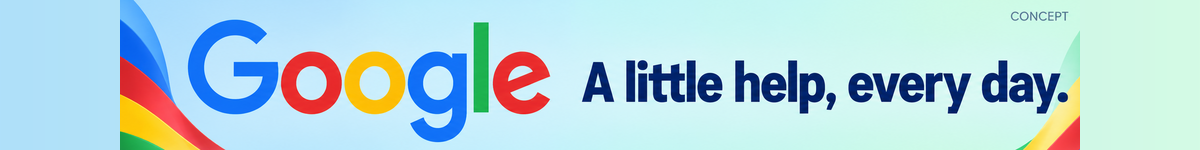
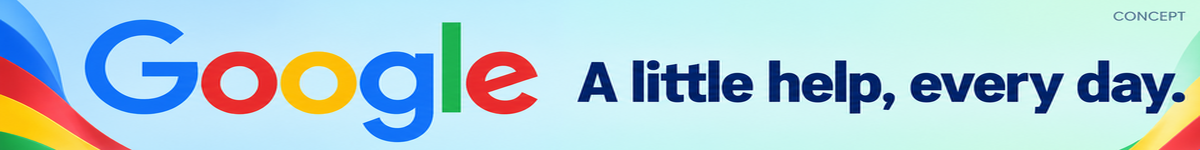
Stretch sponsor edge to edge

diff --git a/index.html b/index.html
@@ -1,6 +1,6 @@
 <!doctype html>
-<html lang="en"><head><meta charset="utf-8"><meta name="viewport" content="width=device-width,initial-scale=1,viewport-fit=cover"><meta name="theme-color" content="#0b1421"><meta name="color-scheme" content="dark light"><meta name="description" content="Household waste collection times in Malta and Gozo."><link rel="manifest" href="manifest.webmanifest?v=1.0.98"><link rel="icon" href="icons/favicon-32.png?v=1.0.98" type="image/png" sizes="32x32"><link rel="apple-touch-icon" href="icons/apple-touch-icon.png?v=1.0.98"><script>(()=>{let theme='dark';try{if(localStorage.getItem('bag-day-appearance-v1')==='light')theme='light';}catch(_){}const root=document.documentElement;const colour=theme==='dark'?'#0b1421':'#edf3f9';root.dataset.theme=theme;root.style.colorScheme=theme;root.style.backgroundColor=colour;document.querySelector('meta[name="theme-color"]').content=colour;document.querySelector('meta[name="color-scheme"]').content=theme;})();</script><link rel="stylesheet" href="css/styles.css?v=1.0.98"><link rel="stylesheet" href="css/game-launcher.css?v=1.0.98"><title>Bag Day Malta</title><link rel="stylesheet" href="css/home-redesign.css?v=1.0.98"></head>
-<body><button id="splashScreen" hidden class="splash-screen" type="button" aria-label="Bag Day Malta. Which waste bag goes out today? See your locality’s collection time. Version 1.0.98. Tap to continue."><span class="splash-content"><span class="splash-bags"><img class="splash-bag splash-bag-white" src="icons/bag-organic.svg" alt="" aria-hidden="true"><img class="splash-bag splash-bag-black" src="icons/bag-mixed.svg" alt="" aria-hidden="true"><img class="splash-bag splash-bag-grey" src="icons/bag-recycle.svg" alt="" aria-hidden="true"></span><span class="splash-question">Which waste bag<br>goes out today?</span><span class="splash-description">See your locality’s<br>collection time.</span><span class="splash-brand">Bag Day Malta</span><span class="splash-version">v 1.0.98</span></span><span class="splash-hint">Tap to continue</span></button>
+<html lang="en"><head><meta charset="utf-8"><meta name="viewport" content="width=device-width,initial-scale=1,viewport-fit=cover"><meta name="theme-color" content="#0b1421"><meta name="color-scheme" content="dark light"><meta name="description" content="Household waste collection times in Malta and Gozo."><link rel="manifest" href="manifest.webmanifest?v=1.0.99"><link rel="icon" href="icons/favicon-32.png?v=1.0.99" type="image/png" sizes="32x32"><link rel="apple-touch-icon" href="icons/apple-touch-icon.png?v=1.0.99"><script>(()=>{let theme='dark';try{if(localStorage.getItem('bag-day-appearance-v1')==='light')theme='light';}catch(_){}const root=document.documentElement;const colour=theme==='dark'?'#0b1421':'#edf3f9';root.dataset.theme=theme;root.style.colorScheme=theme;root.style.backgroundColor=colour;document.querySelector('meta[name="theme-color"]').content=colour;document.querySelector('meta[name="color-scheme"]').content=theme;})();</script><link rel="stylesheet" href="css/styles.css?v=1.0.99"><link rel="stylesheet" href="css/game-launcher.css?v=1.0.99"><title>Bag Day Malta</title><link rel="stylesheet" href="css/home-redesign.css?v=1.0.99"></head>
+<body><button id="splashScreen" hidden class="splash-screen" type="button" aria-label="Bag Day Malta. Which waste bag goes out today? See your locality’s collection time. Version 1.0.99. Tap to continue."><span class="splash-content"><span class="splash-bags"><img class="splash-bag splash-bag-white" src="icons/bag-organic.svg" alt="" aria-hidden="true"><img class="splash-bag splash-bag-black" src="icons/bag-mixed.svg" alt="" aria-hidden="true"><img class="splash-bag splash-bag-grey" src="icons/bag-recycle.svg" alt="" aria-hidden="true"></span><span class="splash-question">Which waste bag<br>goes out today?</span><span class="splash-description">See your locality’s<br>collection time.</span><span class="splash-brand">Bag Day Malta</span><span class="splash-version">v 1.0.99</span></span><span class="splash-hint">Tap to continue</span></button>
 <noscript><style>.splash-screen{display:none}</style></noscript>
 <div id="appContent"><main class="app">
   <header class="topbar"><div class="brand"><button id="brandSupportButton" hidden class="brand-mark" type="button" aria-label="Support Bag Day Malta" aria-haspopup="dialog" aria-controls="supportOverlay" title="Support Bag Day Malta">▦</button><span id="brandPlainMark" class="brand-mark" aria-hidden="true"><img src="icons/bag-organic.svg" alt=""></span><span class="brand-copy">Bag Day<span class="brand-sub">Malta</span></span></div><div class="locality-heading"><h1 id="title"><button id="localityButton" type="button" aria-haspopup="dialog" aria-controls="localityOverlay"><span id="localityName"></span></button></h1><button id="locationModeChip" class="mode-chip" type="button"></button></div><div class="top-actions"><button id="gameModeButton" type="button" aria-label="Play The 1 Minute Sorting Game" title="The 1 Minute Sorting Game" hidden><svg viewBox="0 0 28 24" fill="none" stroke="currentColor" stroke-width="1.8" stroke-linecap="round" stroke-linejoin="round" aria-hidden="true"><path d="M8 5h12c3 0 4 3 5 7l1 5c.5 3-2 4-4 2l-4-3h-8l-4 3c-2 2-4.5 1-4-2l1-5c1-4 2-7 5-7Z"/><path d="M8 9v6m-3-3h6"/><circle cx="19" cy="10" r="1" fill="currentColor" stroke="none"/><circle cx="22" cy="13" r="1" fill="currentColor" stroke="none"/></svg></button><button id="settingsButton" class="icon-button" aria-label="Settings"><svg viewBox="0 0 24 24" fill="none" stroke="currentColor" stroke-width="1.8" aria-hidden="true"><path d="M10.6 2h2.8l.5 2.1c.6.2 1.2.4 1.8.8l1.9-1.1 2 2-1.1 1.9c.4.6.6 1.2.8 1.8l2.1.5v2.8l-2.1.5c-.2.6-.4 1.2-.8 1.8L3.8 6.4l2-2 1.9 1.1c.6-.4 1.2-.6 1.8-.8L10.6 2Z"/><circle cx="12" cy="12" r="3"/></svg></button></div></header>
@@ -20,7 +20,7 @@
 
 <section class="settings-section"><h3 id="appearanceTitle">Appearance</h3><select id="appearanceSelect" aria-labelledby="appearanceTitle"><option value="dark">Dark</option><option value="light">Light</option></select></section>
 <section class="settings-section"><h3>Usage statistics</h3><label class="support-check"><input id="allowAnalytics" type="checkbox"><span>Allow Google Analytics</span></label><p class="section-help">Optional analytics uses cookies to measure visits and interactions. GPS, locality and payment details are not sent. Change this anytime. <a href="https://policies.google.com/privacy" target="_blank" rel="noopener">Google privacy policy</a></p></section>
-<p class="settings-credit">© 2026 ZejtunSoft · v 1.0.98</p>
+<p class="settings-credit">© 2026 ZejtunSoft · v 1.0.99</p>
 
 </section></div>
 <div id="supportOverlay" class="overlay support-overlay" hidden><section id="supportDialog" class="settings support-modal" role="dialog" aria-modal="true" aria-labelledby="supportTitle" aria-describedby="supportIntro">
@@ -55,6 +55,6 @@
 <div id="welcomeNavigation" class="welcome-navigation"><button id="welcomeBack" class="welcome-secondary" type="button" hidden>Back</button><button id="welcomeNext" class="welcome-primary" type="button" disabled>Next</button></div>
 </section></div>
 <div id="gameModeLayer" hidden><div id="gameLaunchStatus"><p id="gameLaunchMessage" role="status"></p><button id="gameLaunchBack" class="close-button" type="button" aria-label="Close game"><svg viewBox="0 0 24 24" fill="none" stroke="currentColor" stroke-width="2" stroke-linecap="round" aria-hidden="true"><path d="m6 6 12 12M18 6 6 18"/></svg></button></div></div>
-<script src="js/local-preview-data.js?v=1.0.98"></script><script src="js/waste-guide.js?v=1.0.98"></script><script src="js/data.js?v=1.0.98"></script><script src="js/navigation.js?v=1.0.98"></script><script src="js/usage-streak.js?v=1.0.98"></script><link rel="stylesheet" href="css/info-panel.css?v=1.0.98"><script src="js/info-panel.js?v=1.0.98"></script><script src="js/home-hints.js?v=1.0.98"></script><script src="js/bulky-refuse.js?v=1.0.98"></script><script src="js/sponsors.js?v=1.0.98"></script><script src="js/app.js?v=1.0.98"></script>
-<script src="js/game-launcher.js?v=1.0.98"></script>
+<script src="js/local-preview-data.js?v=1.0.99"></script><script src="js/waste-guide.js?v=1.0.99"></script><script src="js/data.js?v=1.0.99"></script><script src="js/navigation.js?v=1.0.99"></script><script src="js/usage-streak.js?v=1.0.99"></script><link rel="stylesheet" href="css/info-panel.css?v=1.0.99"><script src="js/info-panel.js?v=1.0.99"></script><script src="js/home-hints.js?v=1.0.99"></script><script src="js/bulky-refuse.js?v=1.0.99"></script><script src="js/sponsors.js?v=1.0.99"></script><script src="js/app.js?v=1.0.99"></script>
+<script src="js/game-launcher.js?v=1.0.99"></script>
 </body></html>

diff --git a/service-worker.js b/service-worker.js
@@ -1,5 +1,5 @@
-const CACHE='bag-day-malta-1.0.98';
-const ASSETS=['./images/sponsors/google.png?v=1.0.98','./icons/card-recycling.svg','./icons/sorting-minute.svg','./js/bulky-refuse.js?v=1.0.98','./icons/council-backdrop.svg','./icons/glass-real.png','./icons/card-botanical.svg','./css/home-redesign.css?v=1.0.98','./js/local-preview-data.js?v=1.0.98','./icons/bag-organic-real.png','./icons/bag-mixed-real.png','./icons/bag-recycle-real.png','./js/sponsors.js?v=1.0.98','./data/councils.csv','./js/info-panel.js?v=1.0.98','./css/info-panel.css?v=1.0.98','./js/home-hints.js?v=1.0.98','./icons/hint-hand.svg','./js/usage-streak.js?v=1.0.98','./js/navigation.js?v=1.0.98','./','./index.html','./css/styles.css?v=1.0.98','./js/data.js?v=1.0.98','./js/app.js?v=1.0.98','./js/waste-guide.js?v=1.0.98','./icons/bag-organic.svg','./icons/bag-mixed.svg','./icons/bag-recycle.svg','./manifest.webmanifest?v=1.0.98','./icons/icon-192.png?v=1.0.98','./icons/icon-512.png?v=1.0.98','./icons/icon-maskable-512.png?v=1.0.98','./icons/apple-touch-icon.png?v=1.0.98','./icons/favicon-32.png?v=1.0.98','./icons/glass-carrier.svg','./icons/zejtunsoft-profile.png'];
+const CACHE='bag-day-malta-1.0.99';
+const ASSETS=['./images/sponsors/google.png?v=1.0.99','./icons/card-recycling.svg','./icons/sorting-minute.svg','./js/bulky-refuse.js?v=1.0.99','./icons/council-backdrop.svg','./icons/glass-real.png','./icons/card-botanical.svg','./css/home-redesign.css?v=1.0.99','./js/local-preview-data.js?v=1.0.99','./icons/bag-organic-real.png','./icons/bag-mixed-real.png','./icons/bag-recycle-real.png','./js/sponsors.js?v=1.0.99','./data/councils.csv','./js/info-panel.js?v=1.0.99','./css/info-panel.css?v=1.0.99','./js/home-hints.js?v=1.0.99','./icons/hint-hand.svg','./js/usage-streak.js?v=1.0.99','./js/navigation.js?v=1.0.99','./','./index.html','./css/styles.css?v=1.0.99','./js/data.js?v=1.0.99','./js/app.js?v=1.0.99','./js/waste-guide.js?v=1.0.99','./icons/bag-organic.svg','./icons/bag-mixed.svg','./icons/bag-recycle.svg','./manifest.webmanifest?v=1.0.99','./icons/icon-192.png?v=1.0.99','./icons/icon-512.png?v=1.0.99','./icons/icon-maskable-512.png?v=1.0.99','./icons/apple-touch-icon.png?v=1.0.99','./icons/favicon-32.png?v=1.0.99','./icons/glass-carrier.svg','./icons/zejtunsoft-profile.png'];
 self.addEventListener('install',event=>{event.waitUntil(caches.open(CACHE).then(cache=>cache.addAll(ASSETS)).then(()=>self.skipWaiting()));});
 self.addEventListener('activate',event=>{event.waitUntil(caches.keys().then(keys=>Promise.all(keys.filter(key=>key.startsWith('bag-day-malta-')&&key!==CACHE).map(key=>caches.delete(key)))).then(()=>self.clients.claim()));});
 self.addEventListener('fetch',event=>{

diff --git a/js/sponsors.js b/js/sponsors.js
@@ -65,7 +65,7 @@
           image.alt=advert.displaytext;image.className='sponsor-banner';
           a.setAttribute('aria-label',advert.displaytext);
           image.onerror=()=>{a.classList.remove('sponsor-link-image');a.textContent=advert.displaytext;};
-          a.classList.add('sponsor-link-image');a.replaceChildren(image);const bannerAsset=new URL(imageURL);if(bannerAsset.origin==='https://bagdaymalta.eu'&&bannerAsset.pathname.toLowerCase()==='/images/sponsors/google.png'){bannerAsset.pathname='/images/sponsors/google.png';bannerAsset.searchParams.set('v','1.0.98');}image.src=bannerAsset.href;
+          a.classList.add('sponsor-link-image');a.replaceChildren(image);const bannerAsset=new URL(imageURL);if(bannerAsset.origin==='https://bagdaymalta.eu'&&bannerAsset.pathname.toLowerCase()==='/images/sponsors/google.png'){bannerAsset.pathname='/images/sponsors/google.png';bannerAsset.searchParams.set('v','1.0.99');}image.src=bannerAsset.href;
         }
         const trackClick=()=>{
           try{

diff --git a/css/home-redesign.css b/css/home-redesign.css
@@ -166,6 +166,6 @@ button.put-out-instruction{width:100%;border:0;background:transparent;color:inhe
 #sponsorPanel .sponsor-link-image::after{content:none}
 #sponsorPanel .sponsor-banner{display:block;width:100%;height:100%;object-fit:fill}
 
-/* Sponsor banners: 1200 x 150 artwork, preserved at an 8:1 ratio. */
+/* Keep the existing banner height; stretch artwork to both horizontal edges. */
 #sponsorPanel .sponsor-link.sponsor-link-image{height:auto;min-height:0;aspect-ratio:8 / 1;padding:0;background:#fff;box-sizing:border-box}
-#sponsorPanel .sponsor-link-image .sponsor-banner{display:block;width:100%;height:100%;object-fit:contain;object-position:center}
+#sponsorPanel .sponsor-link-image .sponsor-banner{display:block;width:100%;height:100%;object-fit:fill;object-position:center}
